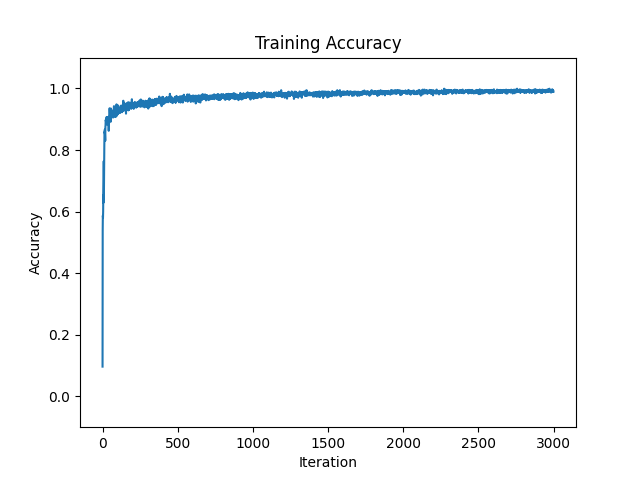
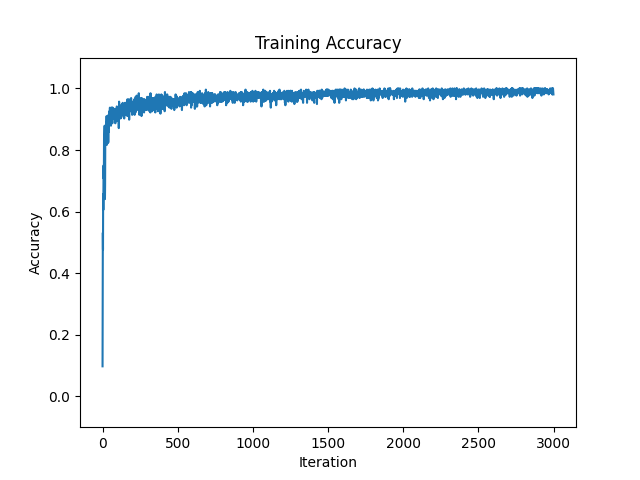
match hyperparameters btwn np and torch

Changed region(s): [[0.1562, 0.1562, 0.875, 0.4062]]

diff --git a/main_np.py b/main_np.py
@@ -21,7 +21,7 @@ if __name__ == '__main__':
     layer2 = layer_init(512, 10)
 
     learning_rate = 0.001
-    batch_size = 1024
+    batch_size = 256
     losses, accuracies = [], []
     
     for i in tqdm(range(3000), desc = 'Training Numpy MLP'):

diff --git a/README.md b/README.md
@@ -32,5 +32,5 @@ If you are trying to understand what goes on "under the hood" in neural networks
 |Comparions| Test Accuracy |
 |-----------|----------|
 |[geohot](https://github.com/geohot/ai-notebooks/blob/master/mnist_from_scratch.ipynb)| 0.9635    | 
-|**Ours**| 0.9799    | 
+|**Ours**| 0.9783    | 
 
